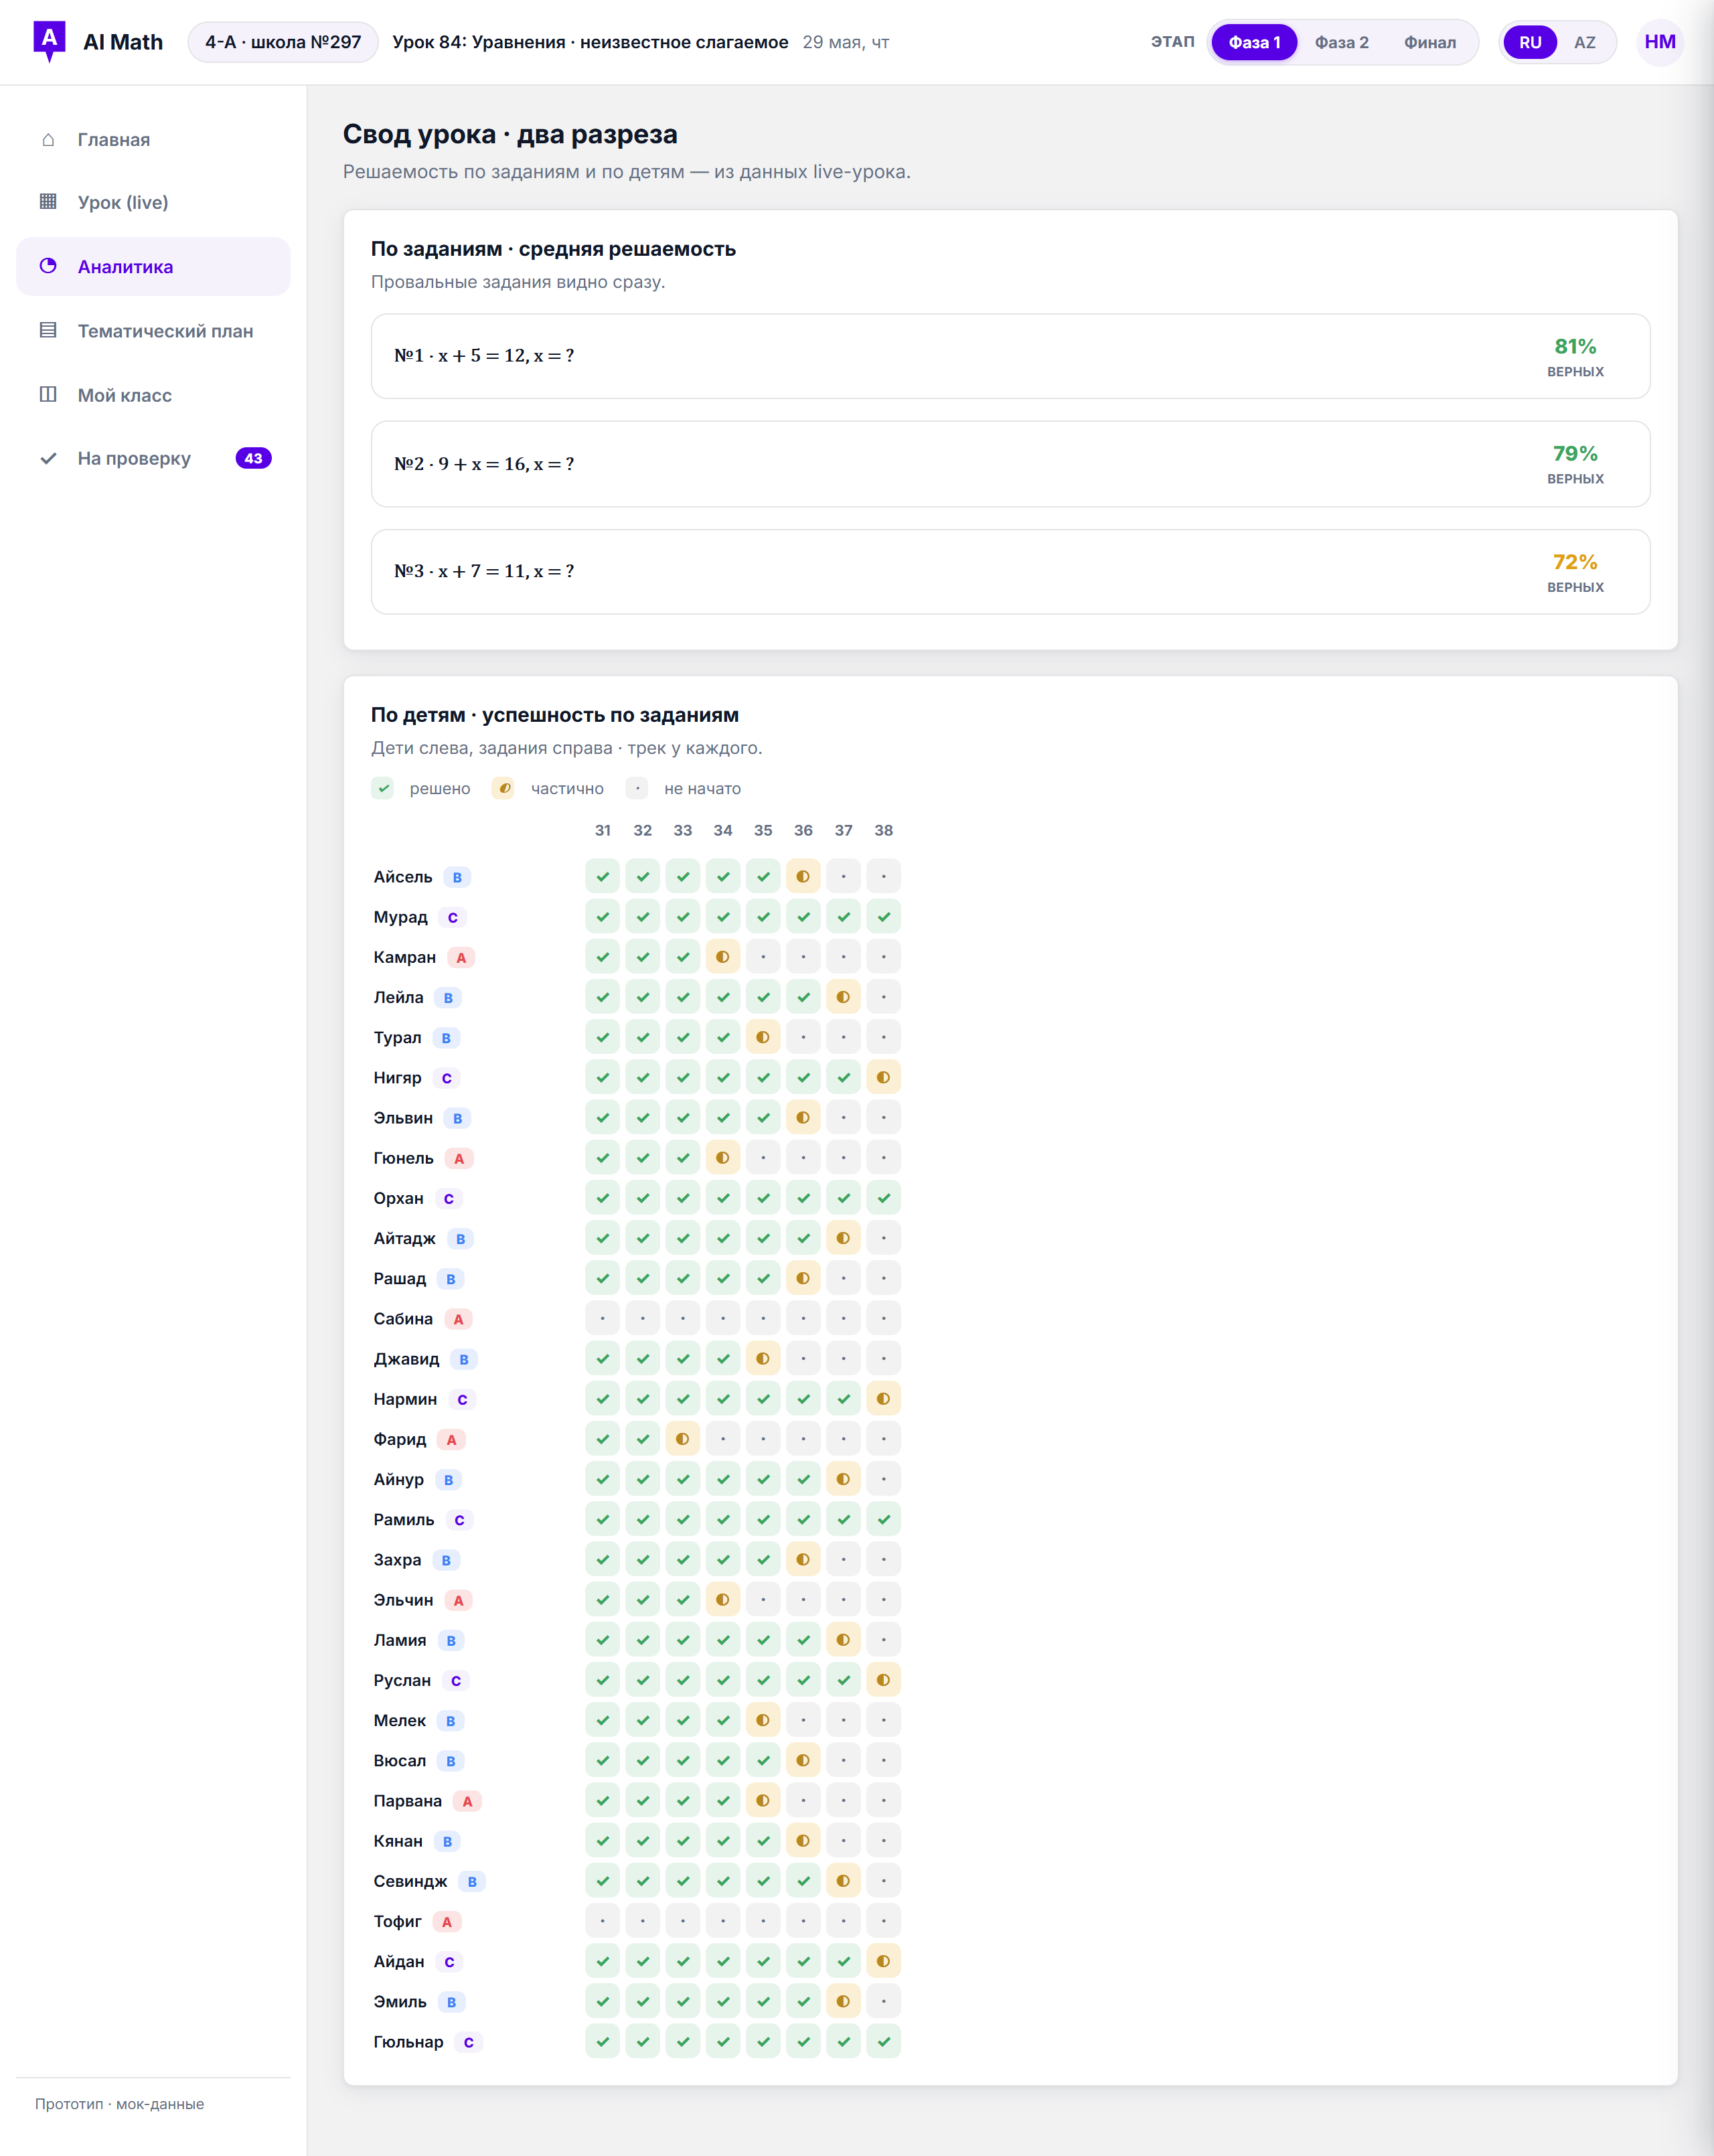
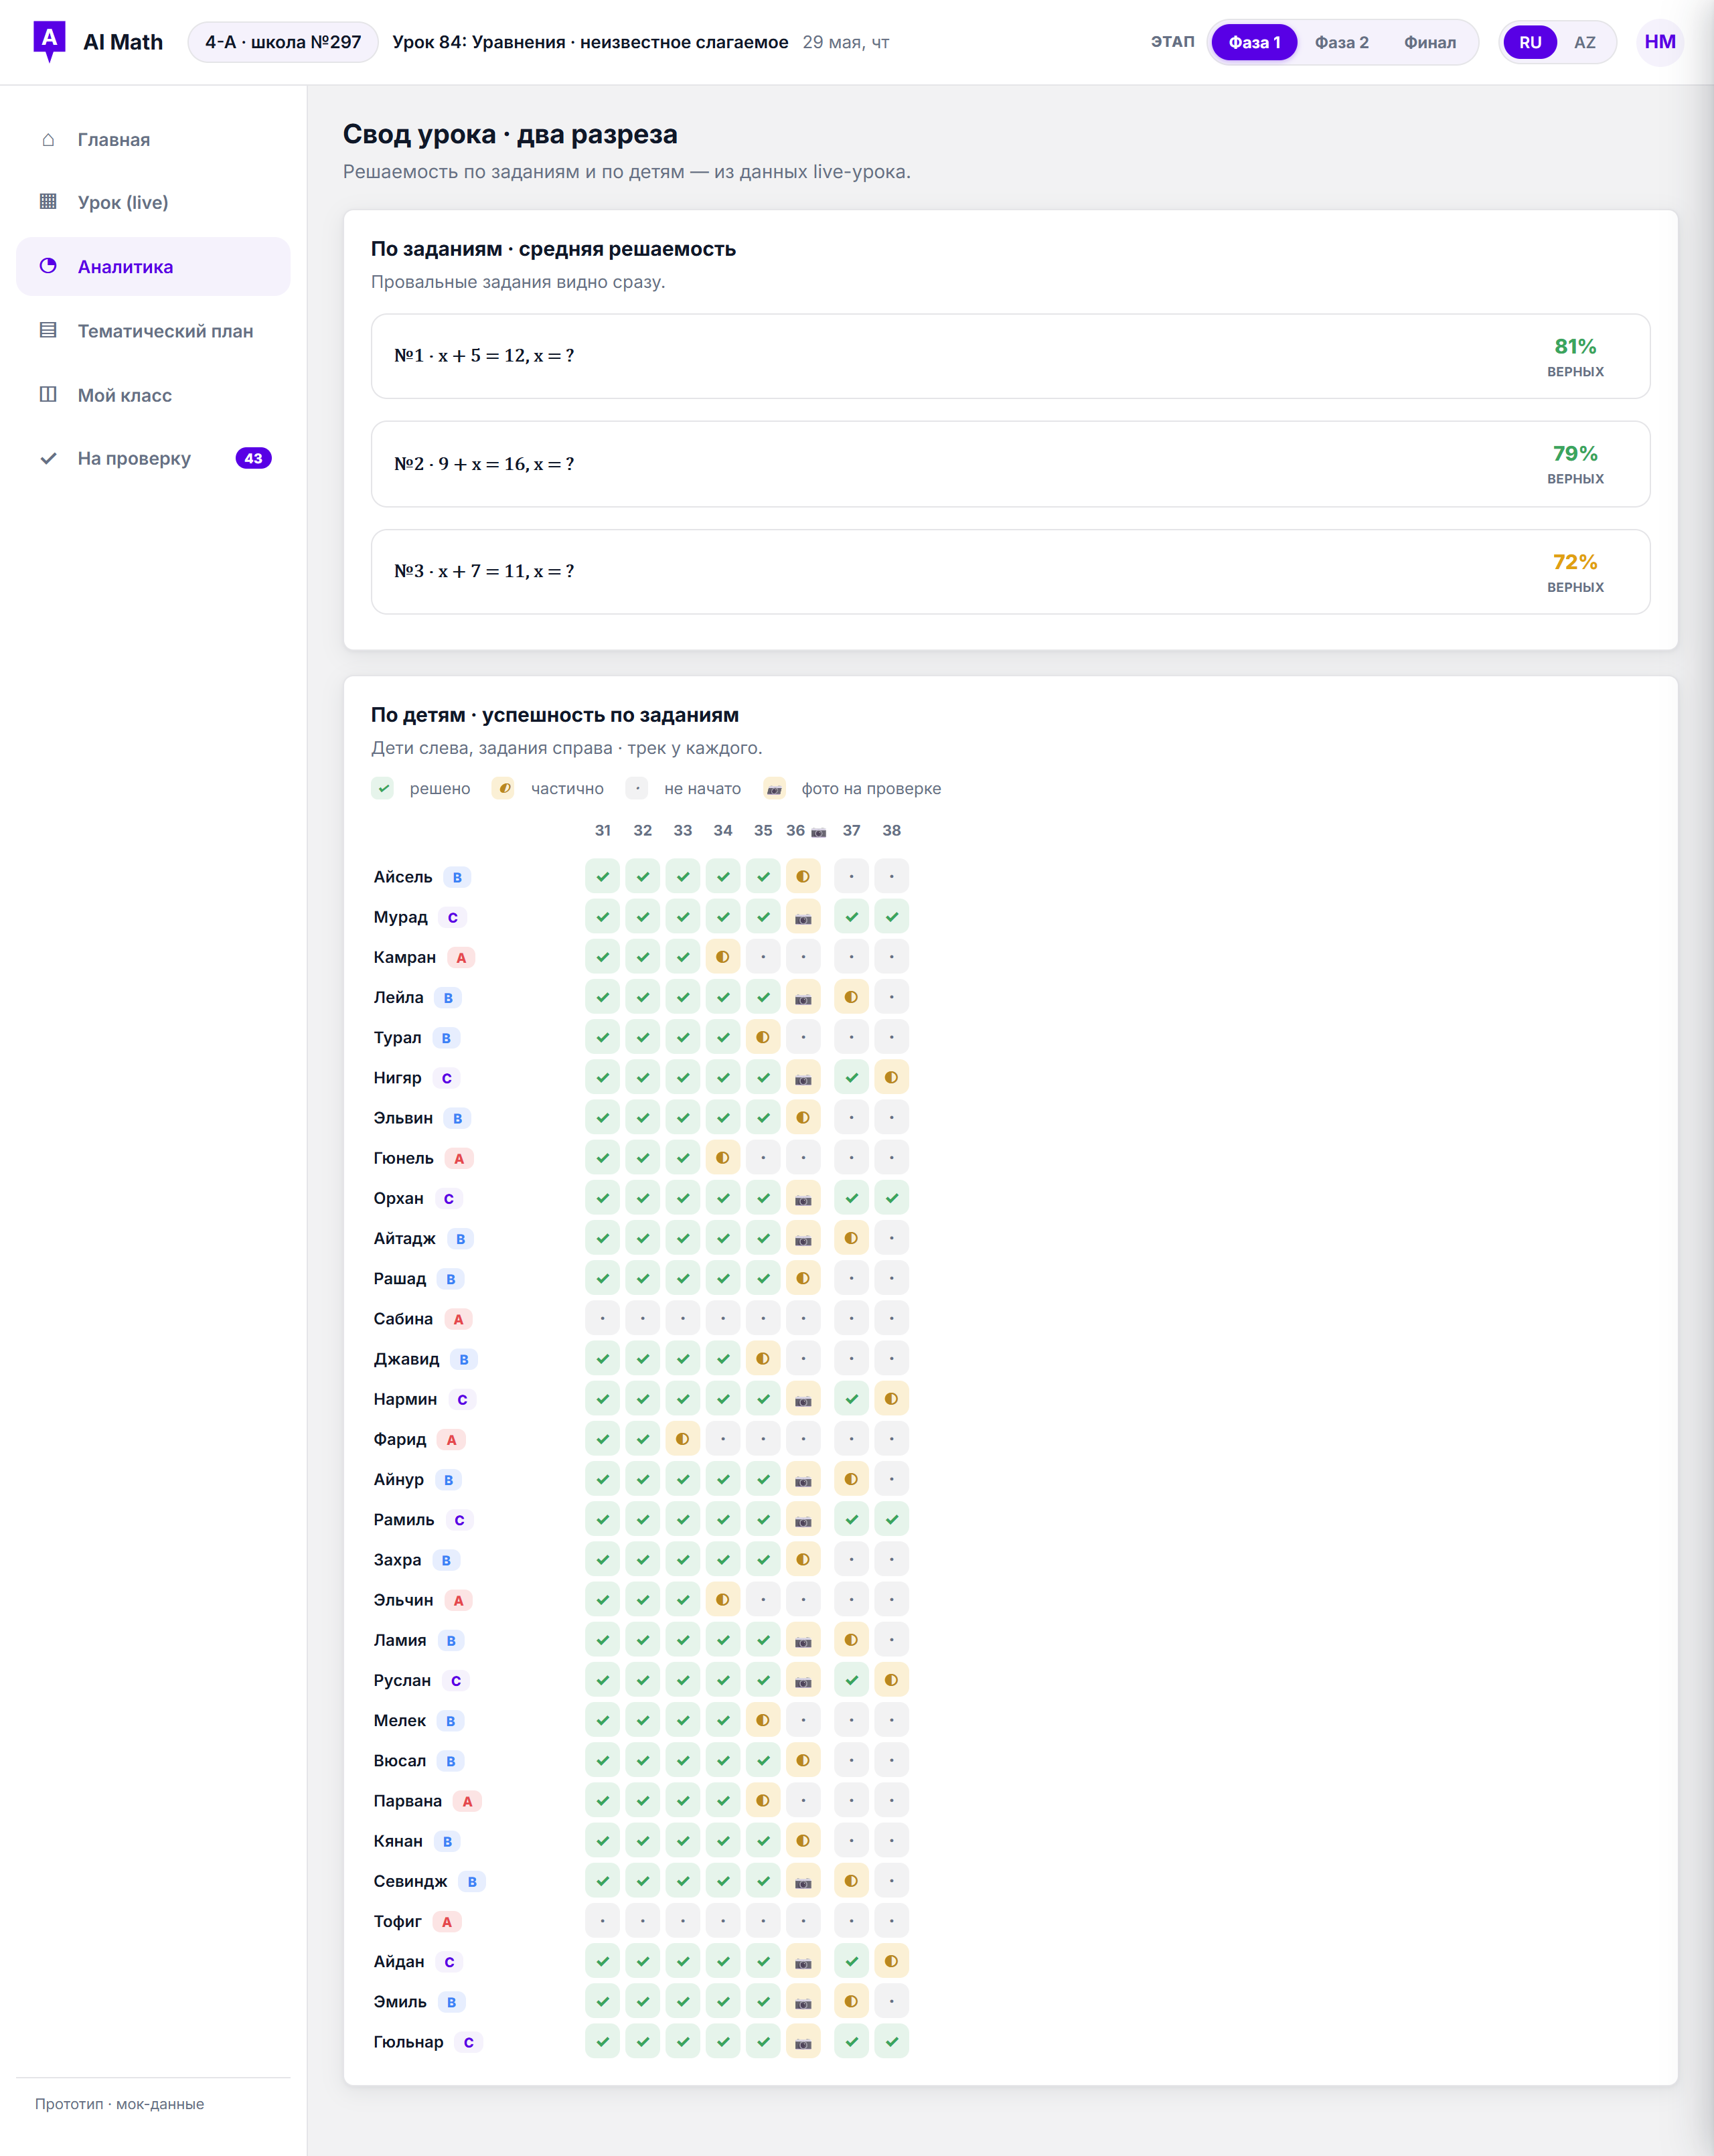
Практика: фото-задание на live-карте — камера в шапке столбца + жёлтый статус «отправлено»
Гэп: учитель не видел, что ученик сдал фото-работу во время урока.
- PHOTO_TASK (№6): в трекере практики ячейка = амбер «📷 отправлено» (без верно/неверно — проверка позже)
- камера 📷 в шапке столбца задания-фото (практика и аналитика по детям)
- легенда: «фото отправлено · на проверку» / аналитика «фото на проверке»
- INTERFACE_PHASE1.md: TS-55 + AC; обновлены скрины _screens_p1

diff --git a/index.html b/index.html
@@ -130,6 +130,7 @@
   .cell.wrong,.sw.wrong{background:var(--coral-soft);color:var(--coral);border-color:var(--coral)}
   .cell.active,.sw.active{background:var(--blue-soft);color:var(--blue);border:1.5px dashed var(--blue);box-shadow:0 0 0 3px rgba(74,144,217,.12)}
   .cell.none,.sw.none{background:var(--gray-soft);color:var(--gray)}
+  .cell.photo,.sw.photo{background:var(--amber-soft);color:#B9871F;border-color:#E7B84B;font-size:13px}
 
   /* AI alerts */
   .alerts{width:300px;flex-shrink:0}
@@ -195,6 +196,7 @@
   .kc.ok{background:var(--green-soft);color:var(--green)}
   .kc.part{background:var(--amber-soft);color:#B9871F}
   .kc.no{background:var(--gray-soft);color:var(--muted)}
+  .kc.sent{background:var(--amber-soft);color:#B9871F;font-size:12px}
   .legend .kc{width:17px;height:17px;font-size:10px;border-radius:5px;margin-right:6px;vertical-align:middle}
 
   /* Карточка ученика · навыки и критерии (Ф1) */
@@ -948,7 +950,7 @@ const I = {
     ],
     // practice
     prLegend:["решает","опередил","застрял","misconception","не начал"],
-    prCellLegend:["решено с 1-й попытки","решено с попыток","ошибается / застрял","решает сейчас","не дошёл"],
+    prCellLegend:["решено с 1-й попытки","решено с попыток","ошибается / застрял","решает сейчас","не дошёл","фото отправлено · на проверку"],
     prTaskPref:"З",
     prMatrixSub:"Задания текущего этапа (Практика) · цвет — статус, число — попытки",
     prStat:["в темпе","опередили","застряли","misconception"],
@@ -1023,7 +1025,7 @@ const I = {
     anP1Sub:"Решаемость по заданиям и по детям — из данных live-урока.",
     anP1ByTasksT:"По заданиям · средняя решаемость", anP1ByTasksS:"Провальные задания видно сразу.",
     anP1ByKidsT:"По детям · успешность по заданиям", anP1ByKidsS:"Дети слева, задания справа · трек у каждого.",
-    anP1KidsLegend:["решено","частично","не начато"],
+    anP1KidsLegend:["решено","частично","не начато","фото на проверке"],
     anOverSum:[["84%","средняя решаемость","green"],["82%","среднее мастерство","green"],["6","уроков с аналитикой","blue"],["30","учеников","blue"]],
     anTrendT:"Решаемость по урокам", anTrendS:"Динамика по проведённым урокам · клик — разбор урока",
     anBySkillT:"Мастерство по навыкам каркаса", anBySkillS:"Освоение класса по пройденным урокам · клик — разбор урока",
@@ -1307,7 +1309,7 @@ const I = {
       {q:"Yoxla: x = 4 x + 6 = 10 tənliyinə uyğundurmu?", answered:25, opts:[["bəli, düzdür",20,true],["xeyr",5,false]]}
     ],
     prLegend:["həll edir","qabaqlayıb","ilişib","yanlış təsəvvür","başlamayıb"],
-    prCellLegend:["1-ci cəhddə həll","cəhdlərlə həll","səhv / ilişib","indi həll edir","çatmayıb"],
+    prCellLegend:["1-ci cəhddə həll","cəhdlərlə həll","səhv / ilişib","indi həll edir","çatmayıb","foto göndərilib · yoxlamada"],
     prTaskPref:"T",
     prMatrixSub:"Cari mərhələnin tapşırıqları (Təcrübə) · rəng — status, rəqəm — cəhdlər",
     prStat:["templə","qabaqlayıb","ilişib","yanlış təsəvvür"],
@@ -1379,7 +1381,7 @@ const I = {
     anP1Sub:"Tapşırıqlar və şagirdlər üzrə həllolunma — canlı dərs məlumatından.",
     anP1ByTasksT:"Tapşırıqlar üzrə · orta həllolunma", anP1ByTasksS:"Uğursuz tapşırıqlar dərhal görünür.",
     anP1ByKidsT:"Şagirdlər üzrə · tapşırıqların uğuru", anP1ByKidsS:"Şagirdlər solda, tapşırıqlar sağda · hər kəsdə trek.",
-    anP1KidsLegend:["həll edilib","qismən","başlanmayıb"],
+    anP1KidsLegend:["həll edilib","qismən","başlanmayıb","foto yoxlamada"],
     anOverSum:[["84%","orta həllolunma","green"],["82%","orta mənimsəmə","green"],["6","analitikalı dərs","blue"],["30","şagird","blue"]],
     anTrendT:"Dərslər üzrə həllolunma", anTrendS:"Keçirilmiş dərslər üzrə dinamika · klik — dərsin təhlili",
     anBySkillT:"Karkas bacarıqları üzrə mənimsəmə", anBySkillS:"Keçilmiş dərslər üzrə sinfin mənimsəməsi · klik — dərsin təhlili",
@@ -2277,10 +2279,18 @@ function exOpenTask(i){exOpened[i]=true;exRevealed[i]=false;toast(t("tExOpen"));
 function exRevealTask(i){exRevealed[i]=true;toast(t("tWuReveal"));renderPhaseBody();}
 
 const N_TASKS=8;
+const PHOTO_TASK=5;   // задание №6 решается в тетради и отправляется фото (проверяет учитель позже)
 function genCells(idx,s){
   const cells=[];
   for(let i=0;i<N_TASKS;i++){
     if(s.st==="idle"){cells.push({k:"none"});continue;}
+    if(i===PHOTO_TASK){
+      // фото-задание: авто-проверки нет — только статус «отправлено» (жёлтый), проверит учитель
+      if(i<s.p) cells.push({k:"photo"});
+      else if(i===s.p && s.st!=="ahead") cells.push({k:"active"});
+      else cells.push({k:"none"});
+      continue;
+    }
     if(i<s.p){
       const att=((idx*3+i*7)%5===0)?2:(((idx+i)%7===0)?3:1);
       cells.push(att>1?{k:"retry",n:att}:{k:"first"});
@@ -2296,6 +2306,7 @@ function genCells(idx,s){
 function cellContent(c){
   if(c.k==="first") return "✓";
   if(c.k==="active") return "…";
+  if(c.k==="photo") return "📷";
   if(c.k==="retry"||c.k==="wrong") return c.n;
   return "";
 }
@@ -2329,9 +2340,9 @@ function practiceHTML(){
   const ps=t("prStat"), cleg=t("prCellLegend"), tp=t("prTaskPref");
   const counts={solving:0,ahead:0,stuck:0,error:0,idle:0};
   STU.forEach(s=>counts[s.st]++);
-  const swKinds=["first","retry","wrong","active","none"];
+  const swKinds=["first","retry","wrong","active","none","photo"];
   const legend=cleg.map((l,i)=>`<span><i class="sw ${swKinds[i]}">${cellContent({k:swKinds[i],n:2})}</i>${l}</span>`).join("");
-  const headers=Array.from({length:N_TASKS},(_,i)=>`<th>${tp}${i+1}</th>`).join("");
+  const headers=Array.from({length:N_TASKS},(_,i)=>`<th>${tp}${i+1}${i===PHOTO_TASK?" 📷":""}</th>`).join("");
   const rows=STU.map((s,i)=>{
     const nm=NAMES[lang][i];
     const cells=genCells(i,s).map((c,ti)=>`<td><div class="cell ${c.k}${c.hand?' hand':''}" onclick="openDrawer(${i},${ti})">${cellContent(c)}${c.hand?'<i class="hand-flag">!</i>':''}</div></td>`).join("");
@@ -2506,6 +2517,7 @@ function anKidCells(idx){
   // post-урок: маппинг live-ячеек в 3 статуса — решено / частично / не начато
   return genCells(idx,STU[idx]).map(c=>{
     if(c.k==="first"||c.k==="retry") return "ok";
+    if(c.k==="photo") return "sent";
     if(c.k==="wrong"||c.k==="active") return "part";
     return "no";
   });
@@ -2522,10 +2534,10 @@ function analyticsP1HTML(){
     </div>`;
   }).join("");
   // Разрез 2 · по детям (дети слева, задания справа), статус-ячейки + трек
-  const glyph={ok:"✓",part:"◐",no:"·"};
+  const glyph={ok:"✓",part:"◐",no:"·",sent:"📷"};
   const kleg=t("anP1KidsLegend");
-  const klegend=`<div class="legend">${["ok","part","no"].map((k,i)=>`<span><i class="kc ${k}">${glyph[k]}</i>${kleg[i]}</span>`).join("")}</div>`;
-  const headers=Array.from({length:N_TASKS},(_,i)=>`<th>${tp}${i+1}</th>`).join("");
+  const klegend=`<div class="legend">${["ok","part","no","sent"].map((k,i)=>`<span><i class="kc ${k}">${glyph[k]}</i>${kleg[i]}</span>`).join("")}</div>`;
+  const headers=Array.from({length:N_TASKS},(_,i)=>`<th>${tp}${i+1}${i===PHOTO_TASK?" 📷":""}</th>`).join("");
   const krows=STU.map((s,i)=>{
     const cells=anKidCells(i).map(k=>`<td><div class="kc ${k}">${glyph[k]}</div></td>`).join("");
     return `<tr><td class="stu" onclick="openStudent(${i})"><span class="rname">${NAMES[lang][i]}</span><span class="trk ${s.trk}">${s.trk}</span></td>${cells}</tr>`;

diff --git a/INTERFACE_PHASE1.md b/INTERFACE_PHASE1.md
@@ -159,6 +159,7 @@
 - TS-29. Как учитель, я хочу получать сигнал **«поднял руку»** от ученика, чтобы подойти к нему точечно.
 - TS-50. Как учитель, я хочу видеть **очередь поднявших руку** (по времени ожидания, с треком и **на каком задании** позвал) и **закрывать сигнал сам** кнопкой «Подошёл», чтобы вести помощь по порядку, а не по случайным кликам.
 - TS-51. Как учитель, в трекере заданий я хочу видеть **«!» на том задании**, где ученик позвал, чтобы сразу понимать контекст вызова.
+- TS-55. Как учитель, во время урока я хочу видеть, что ученик **отправил фото-работу** по письменному заданию, чтобы знать, что она сдана (а не потеряна).
 
 **Контент и действия.**
 - Сводные счётчики по классу: сколько **в теме / опередили / застряли / с типовой ошибкой** (TS-26).
@@ -169,6 +170,7 @@
   - AC: справа — **очередь «Подняли руку»**: позиция, имя+трек, **задание ЗN**, время ожидания; строка кликабельна (провал в ученика).
   - AC: **закрывает сигнал учитель** кнопкой **«✓ Подошёл»** (не ученик — чтобы случайный тап на планшете не снимал вызов).
   - AC: в трекере на ячейке нужного задания — маркер **«!»** (снимается, когда учитель подошёл).
+- **Фото-задание в трекере** (TS-55): у задания, которое решается в тетради, в шапке столбца — иконка **📷**; когда ученик отправил фото, его ячейка становится **жёлтой «отправлено» (📷)**. Верно/неверно не показывается — **проверку учитель делает позже** (авто-проверки фото в Ф1 нет).
 - *(Ученическая часть, экран ученика 5):* ученик видит **свою позицию в очереди**, может **«Решать дальше»** пока ждёт; отложенное задание помечается красным **«✗»** и к нему можно вернуться.
 
 **Референс.** ![Практика · очередь и «!»](_screens_p1/05-practice.png)